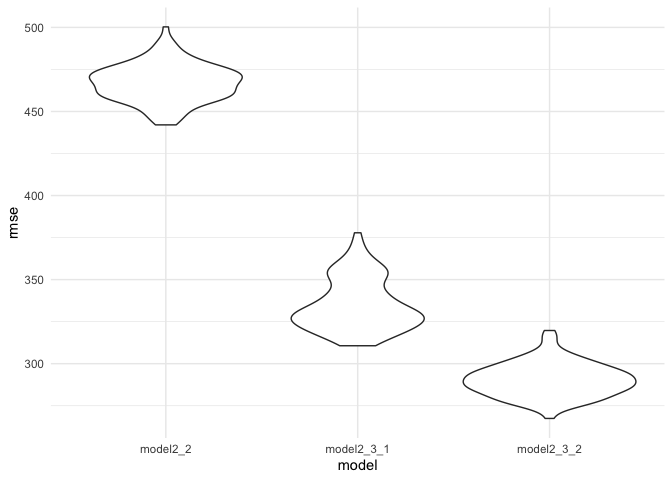
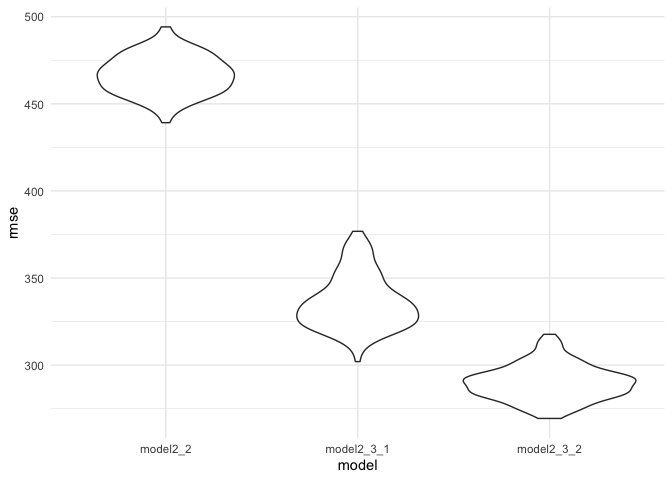
Add model interpretations for prob2

diff --git a/p8105_hw6_yf2563.md b/p8105_hw6_yf2563.md
@@ -216,6 +216,14 @@ baby_df %>%
 
 ![](p8105_hw6_yf2563_files/figure-gfm/unnamed-chunk-8-1.png)<!-- -->
 
+**Interpretation:**
+
+  - Model: the `model2_2` I created is a simple linear regression, with
+    gestational age as predictor (X) and birthweight as Y
+  - Plot: from the plot, since the residuals are relatively evenly
+    distributed around and below y = 0. Thus, it satisfied the linear
+    assumption.
+
 #### 2.3 Compare your model to two others:
 
   - 2.3.1 length at birth and gestational age as predictors (main
@@ -288,6 +296,12 @@ cv_df %>%
 ```
 
 ![](p8105_hw6_yf2563_files/figure-gfm/unnamed-chunk-13-1.png)<!-- -->
+
+**Interpretation:** The first model have the highest rmse, and the third
+model have the lowest rmse. Thus, the last one have the lowest
+prediction error, which means that the model with the predictors of head
+circumference, length, sex, and all interactions (including the
+three-way interaction) between these is the best among the three models.
 
 ## Problem 3
 
@@ -422,16 +436,16 @@ final_result
     ## # A tibble: 5,000 x 3
     ##    strap_number r.squared variable2
     ##           <int>     <dbl>     <dbl>
-    ##  1            1     0.911      1.98
-    ##  2            2     0.918      2.02
-    ##  3            3     0.902      2.03
-    ##  4            4     0.903      2.03
-    ##  5            5     0.916      2.03
-    ##  6            6     0.909      1.97
-    ##  7            7     0.892      2.02
-    ##  8            8     0.891      2.03
-    ##  9            9     0.917      1.97
-    ## 10           10     0.918      1.99
+    ##  1            1     0.921      1.99
+    ##  2            2     0.899      2.04
+    ##  3            3     0.911      2.03
+    ##  4            4     0.916      2.02
+    ##  5            5     0.920      2.07
+    ##  6            6     0.910      2.01
+    ##  7            7     0.914      2.05
+    ##  8            8     0.909      1.98
+    ##  9            9     0.918      2.03
+    ## 10           10     0.914      2.00
     ## # … with 4,990 more rows
 
   - Plot the distribution of your estimates, and describe these in
